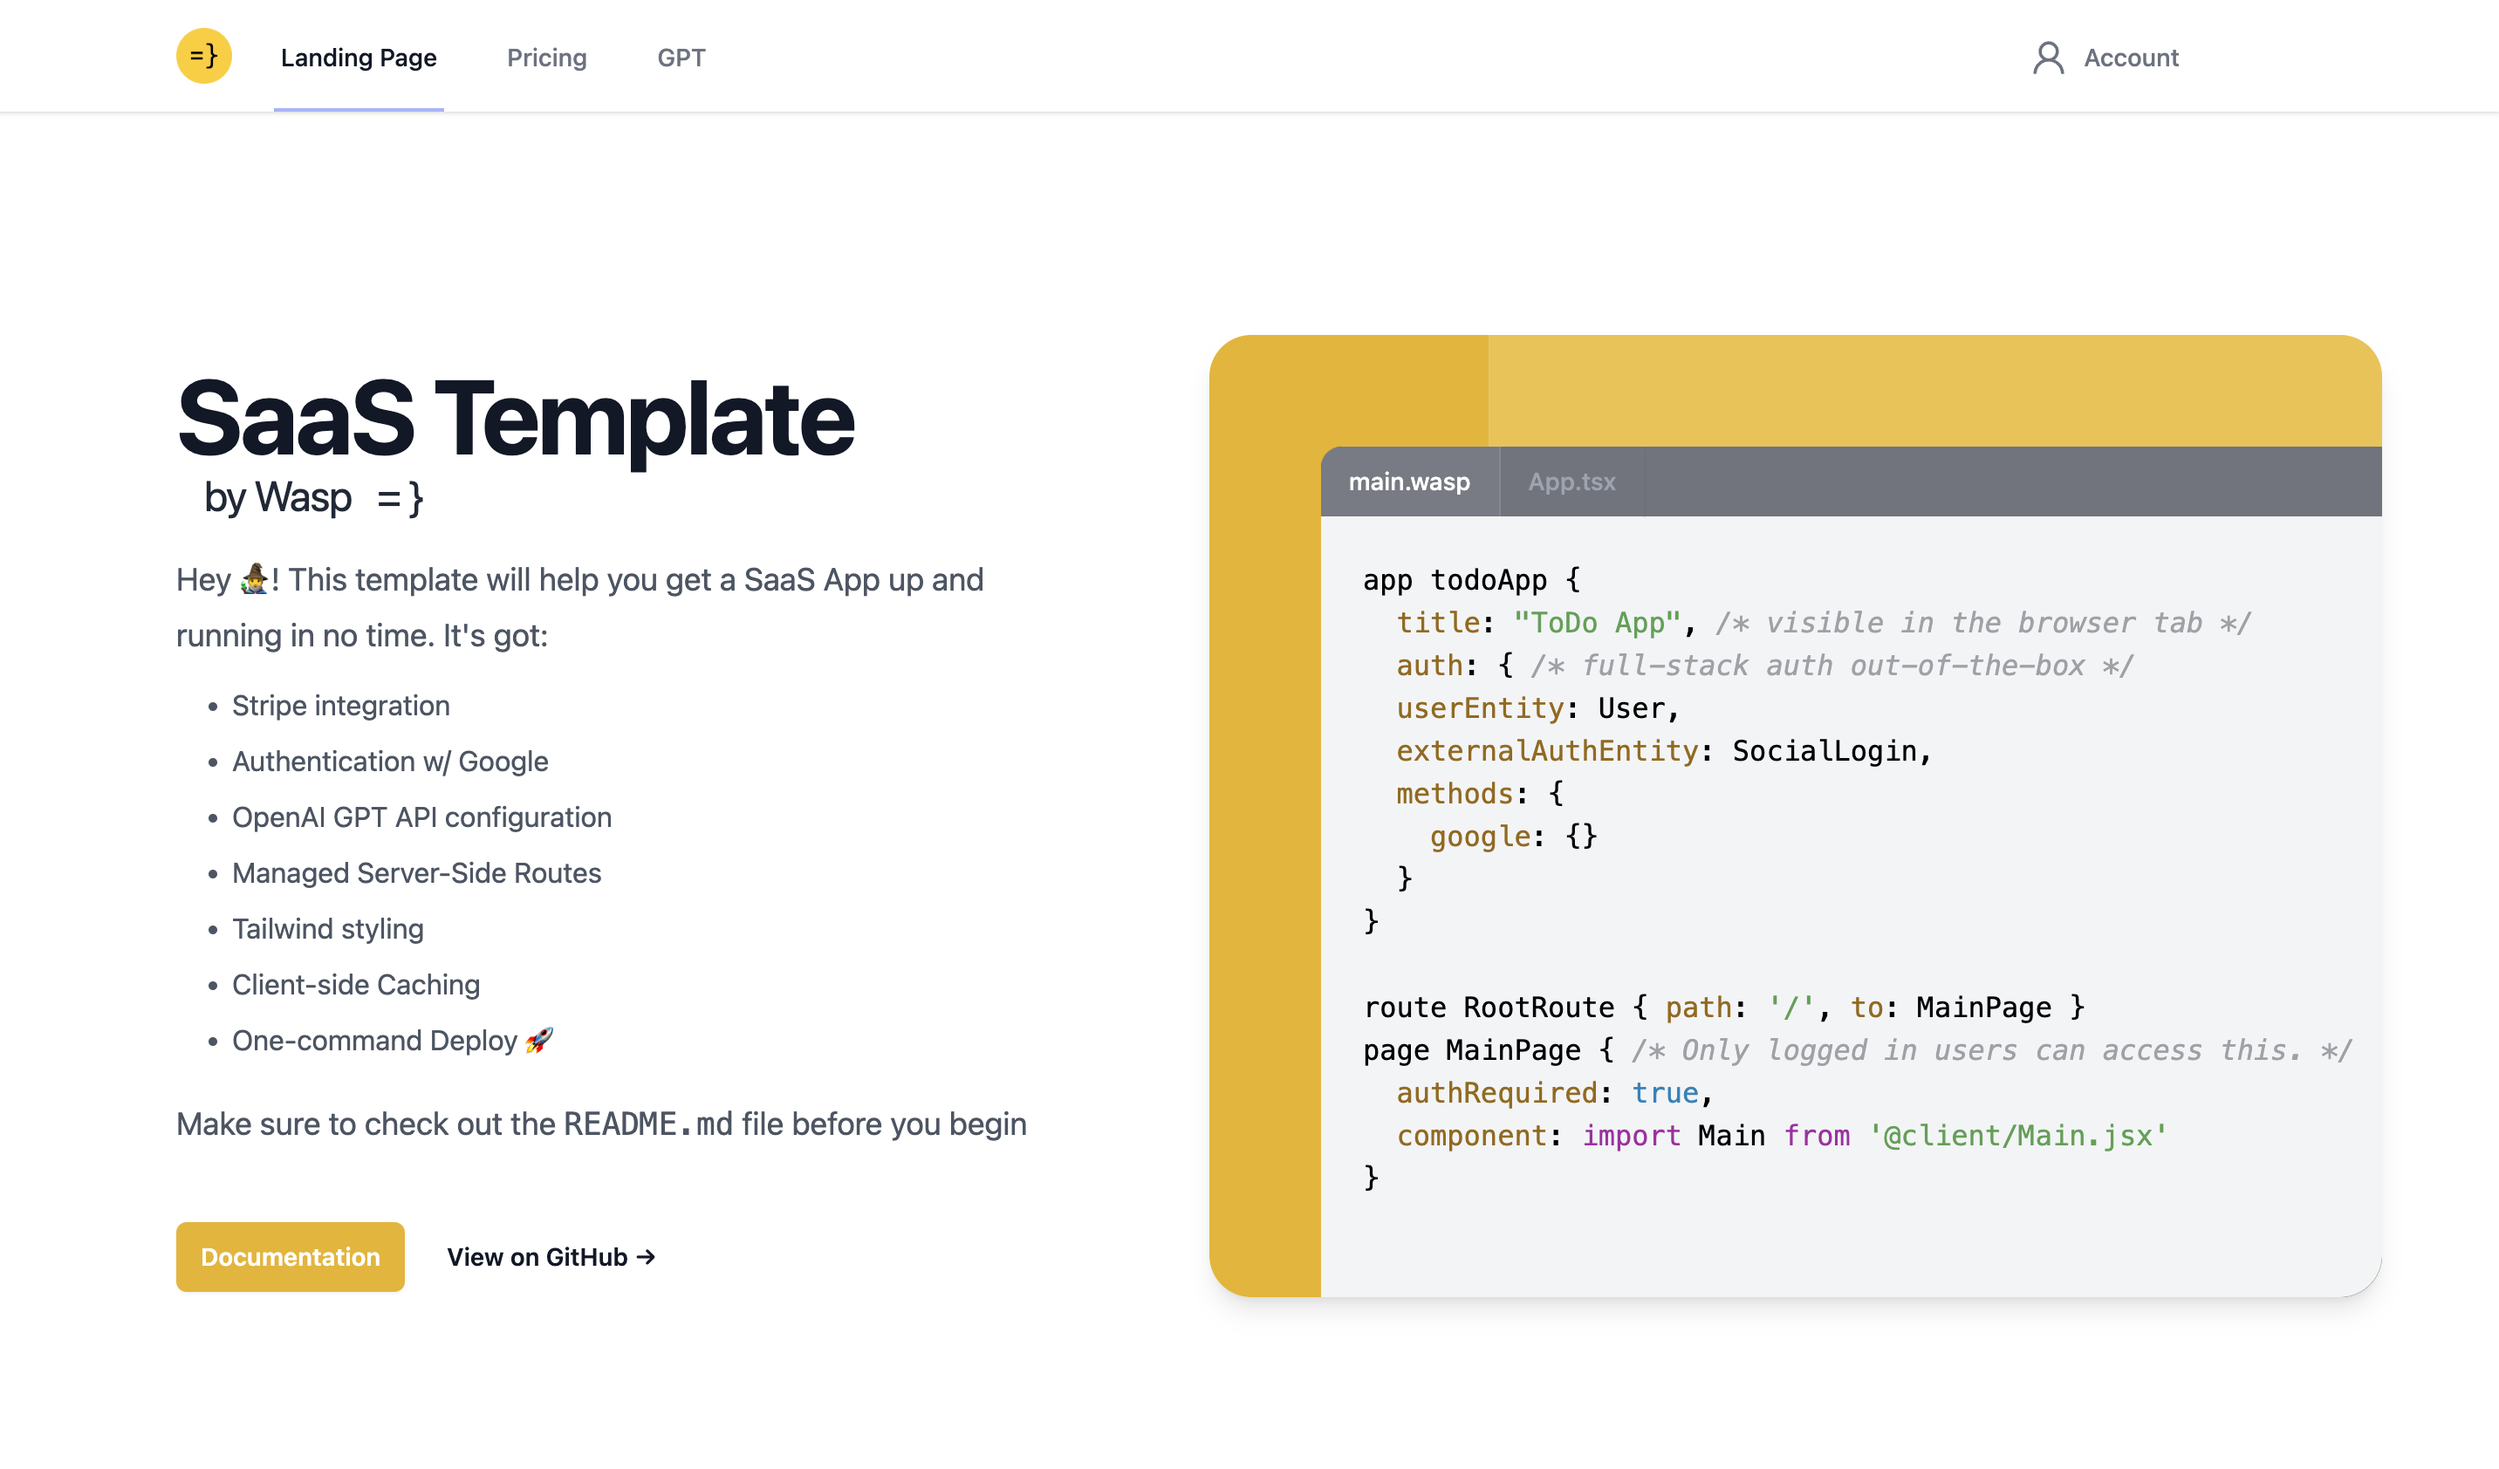
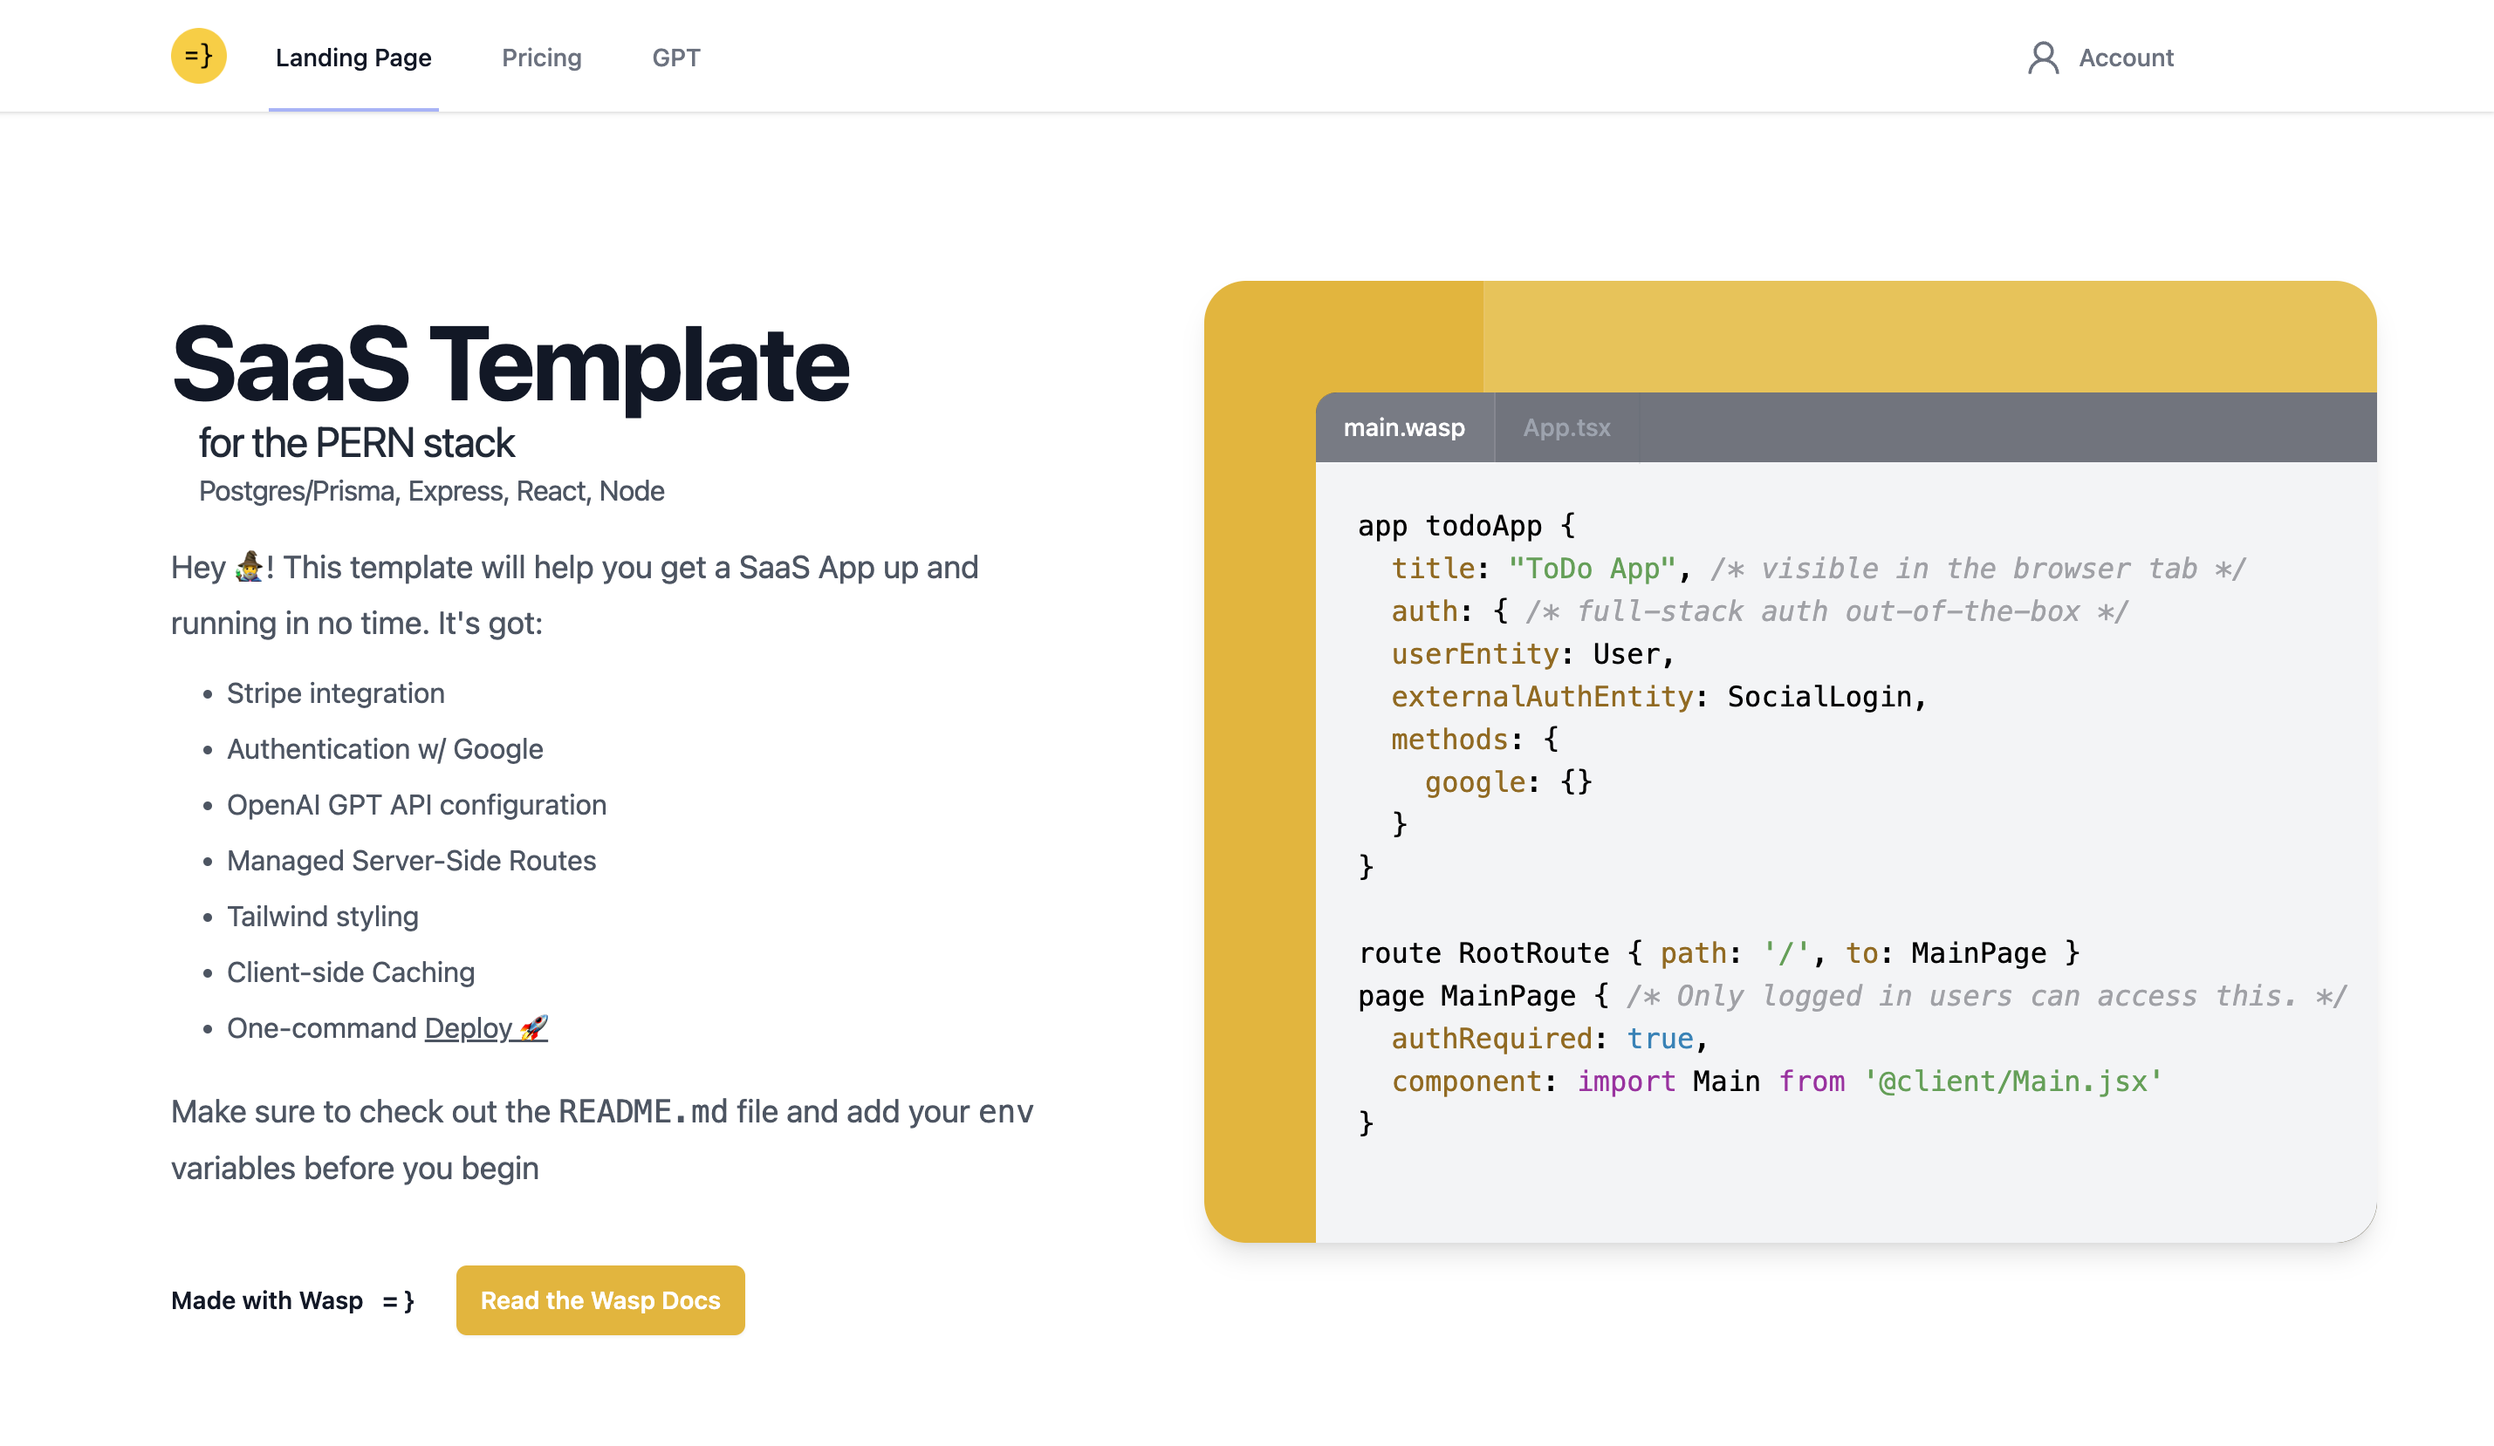
💅

diff --git a/src/client/MainPage.tsx b/src/client/MainPage.tsx
@@ -6,11 +6,14 @@ export default function MainPage() {
           <div className='mx-auto max-w-2xl'>
             <div className='max-w-lg'>
               <h1 className=' text-4xl font-bold tracking-tight text-gray-900 sm:text-6xl'>SaaS Template</h1>
-              <a href='https://wasp-lang.dev'>
-                <h2 className='ml-4 max-w-2xl text-2xl f tracking-tight text-gray-800 slg:col-span-2 xl:col-auto'>
-                  by Wasp &nbsp; {'= }'}
-                </h2>
-              </a>
+
+              <h2 className='ml-4 max-w-2xl text-2xl f tracking-tight text-gray-800 slg:col-span-2 xl:col-auto'>
+                for the PERN stack
+              </h2>
+              <h2 className='ml-4 max-w-2xl text-md f tracking-tight text-gray-600 slg:col-span-2 xl:col-auto'>
+                Postgres/Prisma, Express, React, Node
+              </h2>
+
               <p className='mt-4 text-lg leading-8 text-gray-600'>
                 Hey 🧙♂! This template will help you get a SaaS App up and running in no time. It's got:
               </p>
@@ -21,20 +24,24 @@ export default function MainPage() {
                 <li>Managed Server-Side Routes</li>
                 <li>Tailwind styling</li>
                 <li>Client-side Caching</li>
-                <li>One-command Deploy 🚀</li>
+                <li>
+                  One-command{' '}
+                  <a href='https://wasp-lang.dev/docs/deploying' className='underline' target='_blank'>
+                    Deploy 🚀
+                  </a>
+                </li>
               </ul>
               <p className='mt-4 text-lg leading-8 text-gray-600'>
-                Make sure to check out the <code>README.md</code> file before you begin
+                Make sure to check out the <code>README.md</code> file and add your <code>env</code> variables before
+                you begin
               </p>
               <div className='mt-10 flex items-center gap-x-6'>
+                <span className='text-sm font-semibold leading-6 text-gray-900'>Made with Wasp &nbsp; {' = }'}</span>
                 <a
-                  href='#'
+                  href='https://wasp-lang.dev/docs'
                   className='rounded-md bg-yellow-500 px-3.5 py-2.5 text-sm font-semibold text-white shadow-sm hover:bg-yellow-6  00 focus-visible:outline focus-visible:outline-2 focus-visible:outline-offset-2 focus-visible:outline-indigo-500'
                 >
-                  Documentation
-                </a>
-                <a href='#' className='text-sm font-semibold leading-6 text-gray-900'>
-                  View on GitHub <span aria-hidden='true'>→</span>
+                  Read the Wasp Docs
                 </a>
               </div>
             </div>

diff --git a/src/client/GptPage.tsx b/src/client/GptPage.tsx
@@ -2,6 +2,7 @@ import { useState } from 'react';
 import { useForm } from 'react-hook-form';
 import { RelatedObject } from '@wasp/entities';
 import generateGptResponse from '@wasp/actions/generateGptResponse';
+import useAuth from '@wasp/auth/useAuth';
 
 type GptPayload = {
   instructions: string;
@@ -13,7 +14,14 @@ export default function GptPage() {
   const [temperature, setTemperature] = useState<number>(1);
   const [response, setResponse] = useState<string>('');
 
+  const { data: user } = useAuth();
+
   const onSubmit = async ({ instructions, command, temperature }: any) => {
+    console.log('user, ', !!user)
+    if (!user) {
+      alert('You must be logged in to use this feature.');
+      return;
+    }
     try {
       const response = (await generateGptResponse({ instructions, command, temperature })) as RelatedObject;
       if (response) {
@@ -56,6 +64,7 @@ export default function GptPage() {
                 })}
               />
             </div>
+            <span className='text-sm text-red-500'>{formErrors.instructions && formErrors.instructions.message}</span>
           </div>
           <div className='col-span-full'>
             <label htmlFor='command' className='block text-sm font-medium leading-6 text-gray-900'>
@@ -77,6 +86,7 @@ export default function GptPage() {
                 })}
               />
             </div>
+            <span className='text-sm text-red-500'>{formErrors.command && formErrors.command.message}</span>
           </div>
 
           <div className='h-10 '>

diff --git a/src/client/NavBar.tsx b/src/client/NavBar.tsx
@@ -6,12 +6,10 @@ import useAuth from '@wasp/auth/useAuth';
 
 const active = 'inline-flex items-center border-b-2 border-indigo-300 px-1 pt-1 text-sm font-medium text-gray-900';
 const inactive = 'inline-flex items-center border-b-2 border-transparent px-1 pt-1 text-sm font-medium text-gray-500 hover:border-gray-300 hover:text-gray-700'
-
 const current = window.location.pathname;
+
 export default function NavBar() {
   const { data: user } = useAuth();
-
-  console.log(current);
 
   return (
     <Disclosure as='nav' className='bg-white shadow sticky top-0 z-50 '>
@@ -21,7 +19,7 @@ export default function NavBar() {
             <div className='flex h-16 justify-between'>
               <div className='flex'>
                 <div className='flex flex-shrink-0 items-center'>
-                  <a href='https://wasp-lang.dev/docs' target='_blank'>
+                  <a href='/'>
                     <img className='h-8 w-8' src={logo} alt='My SaaS App' />
                   </a>
                 </div>

diff --git a/src/client/AccountPage.tsx b/src/client/AccountPage.tsx
@@ -48,7 +48,7 @@ export default function Example({ user }: { user: User }) {
             <div className='py-4 sm:grid sm:grid-cols-3 sm:gap-4 sm:py-5 sm:px-6'>
               <dt className='text-sm font-medium text-gray-500'>Most Recent User RelatedObject</dt>
               <dd className='mt-1 text-sm text-gray-900 sm:col-span-2 sm:mt-0'>
-                {!!relatedObjects
+                {!!relatedObjects && relatedObjects.length > 0
                   ? relatedObjects[relatedObjects.length - 1].content
                   : "You don't have any at this time."}
               </dd>

diff --git a/README.md b/README.md
@@ -8,12 +8,24 @@ After cloning this repo, you can run it locally by following these steps:
 1. Install [Wasp](https://wasp-lang.dev) by running `curl -sSL https://get.wasp-lang.dev/installer.sh | sh` in your terminal.
 2. Create a `.env.server` file in the root of the project
 3. Copy the `env.example` file contents to `.env.server` and fill in your API keys
-4. Run `wasp db migrate-dev`
-5. Run `wasp start`
-6. Go to `localhost:3000` in your browser (your NodeJS server will be running on port `3001`)
-7. Install the Wasp extension for VSCode to get syntax highlighting on the `main.wasp` file and other features
-8. Check the files for comments containing specific instructions
-9. Enjoy and Have fun. When you create an App with this template, be kind and let me know by tagging me on twitter [@hot_town](https://twitter.com/hot_town)
+4. Make sure you have a Database connected and running. Here are two quick options:  
+  - Provision a Postgres database on [Railway](https://railway.app), go to settings and copy the `connection url`. Past it as `DATABASE_URL=<your-postgres-connection-url>` into your `env.server` file.  
+  - or you can spin up a Postgres docker container with this command:
+    ```shell
+    docker run \
+      --rm \
+      --publish 5432:5432 \
+      -v my-app-data:/var/lib/postgresql/data \
+      --env POSTGRES_PASSWORD=devpass1234 \
+      postgres
+    ```
+    and then paste `DATABASE_URL=postgresql://postgres:devpass1234@localhost:5432/postgres` into your `env.server` file
+5. Run `wasp db migrate-dev`
+6. Run `wasp start`
+7. Go to `localhost:3000` in your browser (your NodeJS server will be running on port `3001`)
+8. Install the Wasp extension for VSCode to get the best DX
+9. Check the files for comments containing specific instructions
+10. Enjoy and Have fun. When you create an App with this template, be kind and let me know by tagging me on twitter [@hot_town](https://twitter.com/hot_town)
 
 ## How it works
 
